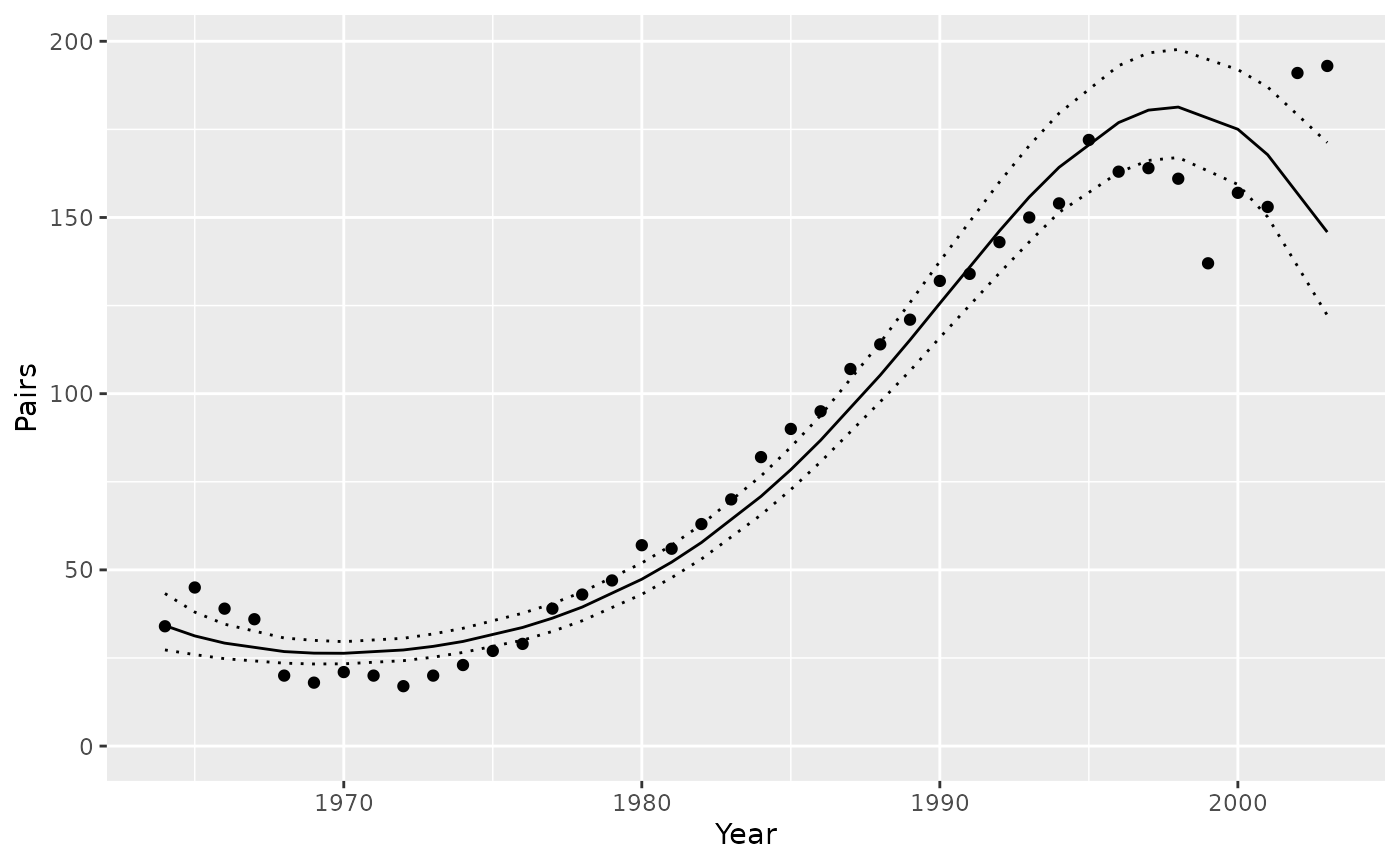
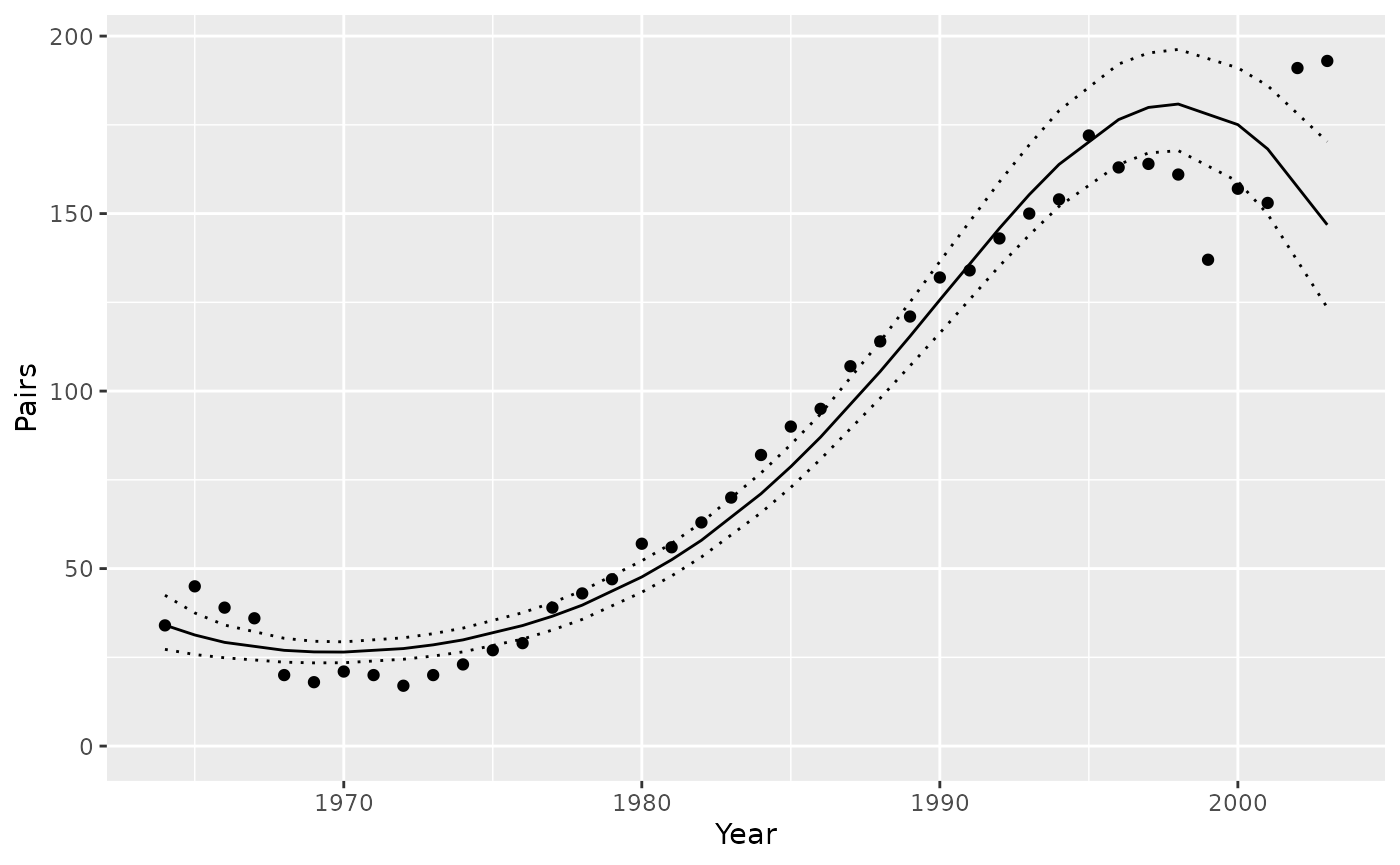
Deploying to gh-pages from @ poissonconsulting/jmbr@3c4b4868b07952795b6767d2d84fde66ae18640a 🚀

diff --git a/articles/jmbr.html b/articles/jmbr.html
@@ -24,7 +24,7 @@
 
     <a class="navbar-brand me-2" href="../index.html">jmbr</a>
 
-    <small class="nav-text text-muted me-auto" data-bs-toggle="tooltip" data-bs-placement="bottom" title="">0.0.0.9160</small>
+    <small class="nav-text text-muted me-auto" data-bs-toggle="tooltip" data-bs-placement="bottom" title="">0.0.0.9161</small>
 
 
     <button class="navbar-toggler" type="button" data-bs-toggle="collapse" data-bs-target="#navbar" aria-controls="navbar" aria-expanded="false" aria-label="Toggle navigation">
@@ -278,14 +278,14 @@ value and discarding all other values.</p>
 <span><span class="co">#&gt; <span style="color: #949494;"># A tibble: 1 × 8</span></span></span>
 <span><span class="co">#&gt;       n     K nchains niters nthin   ess  rhat converged</span></span>
 <span><span class="co">#&gt;   <span style="color: #949494; font-style: italic;">&lt;int&gt;</span> <span style="color: #949494; font-style: italic;">&lt;int&gt;</span>   <span style="color: #949494; font-style: italic;">&lt;int&gt;</span>  <span style="color: #949494; font-style: italic;">&lt;int&gt;</span> <span style="color: #949494; font-style: italic;">&lt;int&gt;</span> <span style="color: #949494; font-style: italic;">&lt;int&gt;</span> <span style="color: #949494; font-style: italic;">&lt;dbl&gt;</span> <span style="color: #949494; font-style: italic;">&lt;lgl&gt;</span>    </span></span>
-<span><span class="co">#&gt; <span style="color: #BCBCBC;">1</span>    40     6       3    500    10   198  1.03 TRUE</span></span>
+<span><span class="co">#&gt; <span style="color: #BCBCBC;">1</span>    40     6       3    500    10   244  1.01 TRUE</span></span>
 <span><span class="co">#&gt; Warning in value[[3L]](cond): beep() could not play the sound due to the following error:</span></span>
 <span><span class="co">#&gt; Error in play.default(x, rate, ...): no audio drivers are available</span></span>
 <span><span class="va">analysis</span> <span class="op">&lt;-</span> <span class="fu"><a href="https://rdrr.io/pkg/embr/man/reanalyse.html" class="external-link">reanalyse</a></span><span class="op">(</span><span class="va">analysis</span><span class="op">)</span></span>
 <span><span class="co">#&gt; <span style="color: #949494;"># A tibble: 1 × 8</span></span></span>
 <span><span class="co">#&gt;       n     K nchains niters nthin   ess  rhat converged</span></span>
 <span><span class="co">#&gt;   <span style="color: #949494; font-style: italic;">&lt;int&gt;</span> <span style="color: #949494; font-style: italic;">&lt;int&gt;</span>   <span style="color: #949494; font-style: italic;">&lt;int&gt;</span>  <span style="color: #949494; font-style: italic;">&lt;int&gt;</span> <span style="color: #949494; font-style: italic;">&lt;int&gt;</span> <span style="color: #949494; font-style: italic;">&lt;int&gt;</span> <span style="color: #949494; font-style: italic;">&lt;dbl&gt;</span> <span style="color: #949494; font-style: italic;">&lt;lgl&gt;</span>    </span></span>
-<span><span class="co">#&gt; <span style="color: #BCBCBC;">1</span>    40     6       3    500    10   198  1.03 TRUE</span></span>
+<span><span class="co">#&gt; <span style="color: #BCBCBC;">1</span>    40     6       3    500    10   244  1.01 TRUE</span></span>
 <span><span class="co">#&gt; Warning in value[[3L]](cond): beep() could not play the sound due to the following error:</span></span>
 <span><span class="co">#&gt; Error in play.default(x, rate, ...): no audio drivers are available</span></span></code></pre></div>
 <p><strong>Analysis Table:</strong></p>
@@ -329,12 +329,12 @@ between- and within-chain estimates for model parameters.
 <span><span class="co">#&gt; <span style="color: #949494;"># A tibble: 6 × 5</span></span></span>
 <span><span class="co">#&gt;   term        estimate   lower   upper svalue</span></span>
 <span><span class="co">#&gt;   <span style="color: #949494; font-style: italic;">&lt;term&gt;</span>         <span style="color: #949494; font-style: italic;">&lt;dbl&gt;</span>   <span style="color: #949494; font-style: italic;">&lt;dbl&gt;</span>   <span style="color: #949494; font-style: italic;">&lt;dbl&gt;</span>  <span style="color: #949494; font-style: italic;">&lt;dbl&gt;</span></span></span>
-<span><span class="co">#&gt; <span style="color: #BCBCBC;">1</span> alpha         4.26    4.18    4.34   10.6  </span></span>
-<span><span class="co">#&gt; <span style="color: #BCBCBC;">2</span> beta1         1.20    1.06    1.35   10.6  </span></span>
-<span><span class="co">#&gt; <span style="color: #BCBCBC;">3</span> beta2        -<span style="color: #BB0000;">0.017</span><span style="color: #BB0000; text-decoration: underline;">7</span> -<span style="color: #BB0000;">0.075</span><span style="color: #BB0000; text-decoration: underline;">9</span>  0.040<span style="text-decoration: underline;">5</span>  0.885</span></span>
-<span><span class="co">#&gt; <span style="color: #BCBCBC;">4</span> beta3        -<span style="color: #BB0000;">0.276</span>  -<span style="color: #BB0000;">0.353</span>  -<span style="color: #BB0000;">0.202</span>  10.6  </span></span>
-<span><span class="co">#&gt; <span style="color: #BCBCBC;">5</span> log_sAnnual  -<span style="color: #BB0000;">2.21</span>   -<span style="color: #BB0000;">2.88</span>   -<span style="color: #BB0000;">1.72</span>   10.6  </span></span>
-<span><span class="co">#&gt; <span style="color: #BCBCBC;">6</span> sAnnual       0.110   0.056<span style="text-decoration: underline;">1</span>  0.179  10.6</span></span></code></pre></div>
+<span><span class="co">#&gt; <span style="color: #BCBCBC;">1</span> alpha         4.26    4.19    4.34   10.6  </span></span>
+<span><span class="co">#&gt; <span style="color: #BCBCBC;">2</span> beta1         1.19    1.07    1.34   10.6  </span></span>
+<span><span class="co">#&gt; <span style="color: #BCBCBC;">3</span> beta2        -<span style="color: #BB0000;">0.017</span><span style="color: #BB0000; text-decoration: underline;">1</span> -<span style="color: #BB0000;">0.079</span><span style="color: #BB0000; text-decoration: underline;">4</span>  0.038<span style="text-decoration: underline;">0</span>  0.857</span></span>
+<span><span class="co">#&gt; <span style="color: #BCBCBC;">4</span> beta3        -<span style="color: #BB0000;">0.271</span>  -<span style="color: #BB0000;">0.346</span>  -<span style="color: #BB0000;">0.208</span>  10.6  </span></span>
+<span><span class="co">#&gt; <span style="color: #BCBCBC;">5</span> log_sAnnual  -<span style="color: #BB0000;">2.24</span>   -<span style="color: #BB0000;">3.01</span>   -<span style="color: #BB0000;">1.75</span>   10.6  </span></span>
+<span><span class="co">#&gt; <span style="color: #BCBCBC;">6</span> sAnnual       0.106   0.049<span style="text-decoration: underline;">5</span>  0.173  10.6</span></span></code></pre></div>
 <p>The estimate is the <strong>median</strong> by default.</p>
 <p>The s-value is the <strong>suprisal</strong> value, which is a
 measure of directionality with respect to zero.</p>

diff --git a/news/index.html b/news/index.html
@@ -7,7 +7,7 @@
 
     <a class="navbar-brand me-2" href="../index.html">jmbr</a>
 
-    <small class="nav-text text-muted me-auto" data-bs-toggle="tooltip" data-bs-placement="bottom" title="">0.0.0.9160</small>
+    <small class="nav-text text-muted me-auto" data-bs-toggle="tooltip" data-bs-placement="bottom" title="">0.0.0.9161</small>
 
 
     <button class="navbar-toggler" type="button" data-bs-toggle="collapse" data-bs-target="#navbar" aria-controls="navbar" aria-expanded="false" aria-label="Toggle navigation">
@@ -33,6 +33,10 @@
       <small>Source: <a href="https://github.com/poissonconsulting/jmbr/blob/main/NEWS.md" class="external-link"><code>NEWS.md</code></a></small>
     </div>
 
+    <div class="section level2">
+<h2 class="pkg-version" data-toc-text="0.0.0.9161" id="jmbr-0009161-2026-10-13">jmbr 0.0.0.9161 (2026-10-13)<a class="anchor" aria-label="anchor" href="#jmbr-0009161-2026-10-13"></a></h2>
+<ul><li>Same as previous version.</li>
+</ul></div>
     <div class="section level2">
 <h2 class="pkg-version" data-toc-text="0.0.0.9160" id="jmbr-0009160-2026-10-08">jmbr 0.0.0.9160 (2026-10-08)<a class="anchor" aria-label="anchor" href="#jmbr-0009160-2026-10-08"></a></h2>
 <ul><li>Same as previous version.</li>

diff --git a/404.html b/404.html
@@ -24,7 +24,7 @@
 
     <a class="navbar-brand me-2" href="https://poissonconsulting.github.io/jmbr/index.html">jmbr</a>
 
-    <small class="nav-text text-muted me-auto" data-bs-toggle="tooltip" data-bs-placement="bottom" title="">0.0.0.9160</small>
+    <small class="nav-text text-muted me-auto" data-bs-toggle="tooltip" data-bs-placement="bottom" title="">0.0.0.9161</small>
 
 
     <button class="navbar-toggler" type="button" data-bs-toggle="collapse" data-bs-target="#navbar" aria-controls="navbar" aria-expanded="false" aria-label="Toggle navigation">

diff --git a/articles/index.html b/articles/index.html
@@ -7,7 +7,7 @@
 
     <a class="navbar-brand me-2" href="../index.html">jmbr</a>
 
-    <small class="nav-text text-muted me-auto" data-bs-toggle="tooltip" data-bs-placement="bottom" title="">0.0.0.9160</small>
+    <small class="nav-text text-muted me-auto" data-bs-toggle="tooltip" data-bs-placement="bottom" title="">0.0.0.9161</small>
 
 
     <button class="navbar-toggler" type="button" data-bs-toggle="collapse" data-bs-target="#navbar" aria-controls="navbar" aria-expanded="false" aria-label="Toggle navigation">

diff --git a/reference/index.html b/reference/index.html
@@ -7,7 +7,7 @@
 
     <a class="navbar-brand me-2" href="../index.html">jmbr</a>
 
-    <small class="nav-text text-muted me-auto" data-bs-toggle="tooltip" data-bs-placement="bottom" title="">0.0.0.9160</small>
+    <small class="nav-text text-muted me-auto" data-bs-toggle="tooltip" data-bs-placement="bottom" title="">0.0.0.9161</small>
 
 
     <button class="navbar-toggler" type="button" data-bs-toggle="collapse" data-bs-target="#navbar" aria-controls="navbar" aria-expanded="false" aria-label="Toggle navigation">

diff --git a/reference/is.jmb_analysis.html b/reference/is.jmb_analysis.html
@@ -7,7 +7,7 @@
 
     <a class="navbar-brand me-2" href="../index.html">jmbr</a>
 
-    <small class="nav-text text-muted me-auto" data-bs-toggle="tooltip" data-bs-placement="bottom" title="">0.0.0.9160</small>
+    <small class="nav-text text-muted me-auto" data-bs-toggle="tooltip" data-bs-placement="bottom" title="">0.0.0.9161</small>
 
 
     <button class="navbar-toggler" type="button" data-bs-toggle="collapse" data-bs-target="#navbar" aria-controls="navbar" aria-expanded="false" aria-label="Toggle navigation">

diff --git a/reference/is.jmb_code.html b/reference/is.jmb_code.html
@@ -7,7 +7,7 @@
 
     <a class="navbar-brand me-2" href="../index.html">jmbr</a>
 
-    <small class="nav-text text-muted me-auto" data-bs-toggle="tooltip" data-bs-placement="bottom" title="">0.0.0.9160</small>
+    <small class="nav-text text-muted me-auto" data-bs-toggle="tooltip" data-bs-placement="bottom" title="">0.0.0.9161</small>
 
 
     <button class="navbar-toggler" type="button" data-bs-toggle="collapse" data-bs-target="#navbar" aria-controls="navbar" aria-expanded="false" aria-label="Toggle navigation">

diff --git a/reference/is.jmb_model.html b/reference/is.jmb_model.html
@@ -7,7 +7,7 @@
 
     <a class="navbar-brand me-2" href="../index.html">jmbr</a>
 
-    <small class="nav-text text-muted me-auto" data-bs-toggle="tooltip" data-bs-placement="bottom" title="">0.0.0.9160</small>
+    <small class="nav-text text-muted me-auto" data-bs-toggle="tooltip" data-bs-placement="bottom" title="">0.0.0.9161</small>
 
 
     <button class="navbar-toggler" type="button" data-bs-toggle="collapse" data-bs-target="#navbar" aria-controls="navbar" aria-expanded="false" aria-label="Toggle navigation">

diff --git a/reference/jmbr-package.html b/reference/jmbr-package.html
@@ -7,7 +7,7 @@
 
     <a class="navbar-brand me-2" href="../index.html">jmbr</a>
 
-    <small class="nav-text text-muted me-auto" data-bs-toggle="tooltip" data-bs-placement="bottom" title="">0.0.0.9160</small>
+    <small class="nav-text text-muted me-auto" data-bs-toggle="tooltip" data-bs-placement="bottom" title="">0.0.0.9161</small>
 
 
     <button class="navbar-toggler" type="button" data-bs-toggle="collapse" data-bs-target="#navbar" aria-controls="navbar" aria-expanded="false" aria-label="Toggle navigation">

diff --git a/index.html b/index.html
@@ -26,7 +26,7 @@
 
     <a class="navbar-brand me-2" href="index.html">jmbr</a>
 
-    <small class="nav-text text-muted me-auto" data-bs-toggle="tooltip" data-bs-placement="bottom" title="">0.0.0.9160</small>
+    <small class="nav-text text-muted me-auto" data-bs-toggle="tooltip" data-bs-placement="bottom" title="">0.0.0.9161</small>
 
 
     <button class="navbar-toggler" type="button" data-bs-toggle="collapse" data-bs-target="#navbar" aria-controls="navbar" aria-expanded="false" aria-label="Toggle navigation">

diff --git a/CODE_OF_CONDUCT.html b/CODE_OF_CONDUCT.html
@@ -7,7 +7,7 @@
 
     <a class="navbar-brand me-2" href="index.html">jmbr</a>
 
-    <small class="nav-text text-muted me-auto" data-bs-toggle="tooltip" data-bs-placement="bottom" title="">0.0.0.9160</small>
+    <small class="nav-text text-muted me-auto" data-bs-toggle="tooltip" data-bs-placement="bottom" title="">0.0.0.9161</small>
 
 
     <button class="navbar-toggler" type="button" data-bs-toggle="collapse" data-bs-target="#navbar" aria-controls="navbar" aria-expanded="false" aria-label="Toggle navigation">

diff --git a/CONTRIBUTING.html b/CONTRIBUTING.html
@@ -7,7 +7,7 @@
 
     <a class="navbar-brand me-2" href="index.html">jmbr</a>
 
-    <small class="nav-text text-muted me-auto" data-bs-toggle="tooltip" data-bs-placement="bottom" title="">0.0.0.9160</small>
+    <small class="nav-text text-muted me-auto" data-bs-toggle="tooltip" data-bs-placement="bottom" title="">0.0.0.9161</small>
 
 
     <button class="navbar-toggler" type="button" data-bs-toggle="collapse" data-bs-target="#navbar" aria-controls="navbar" aria-expanded="false" aria-label="Toggle navigation">
